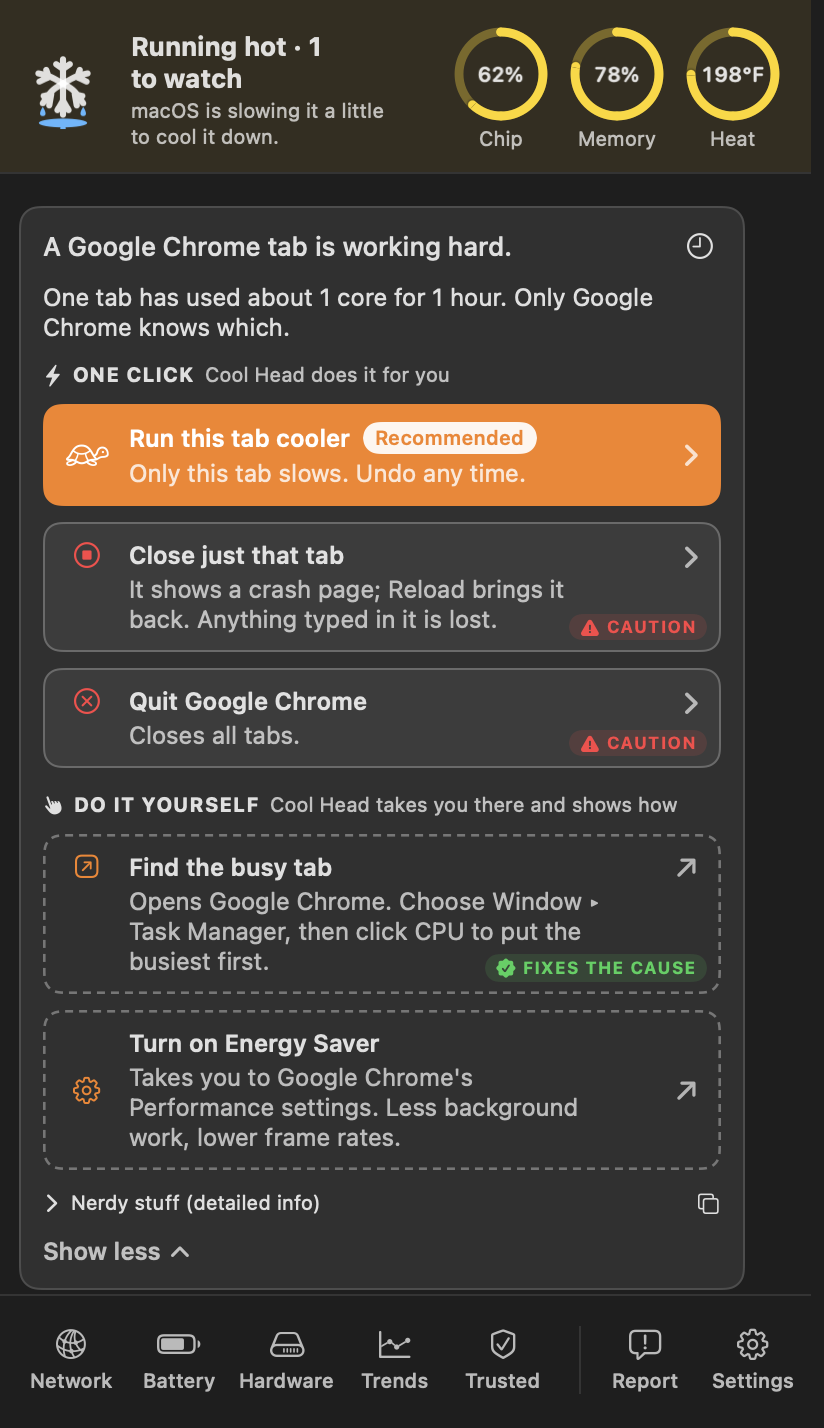
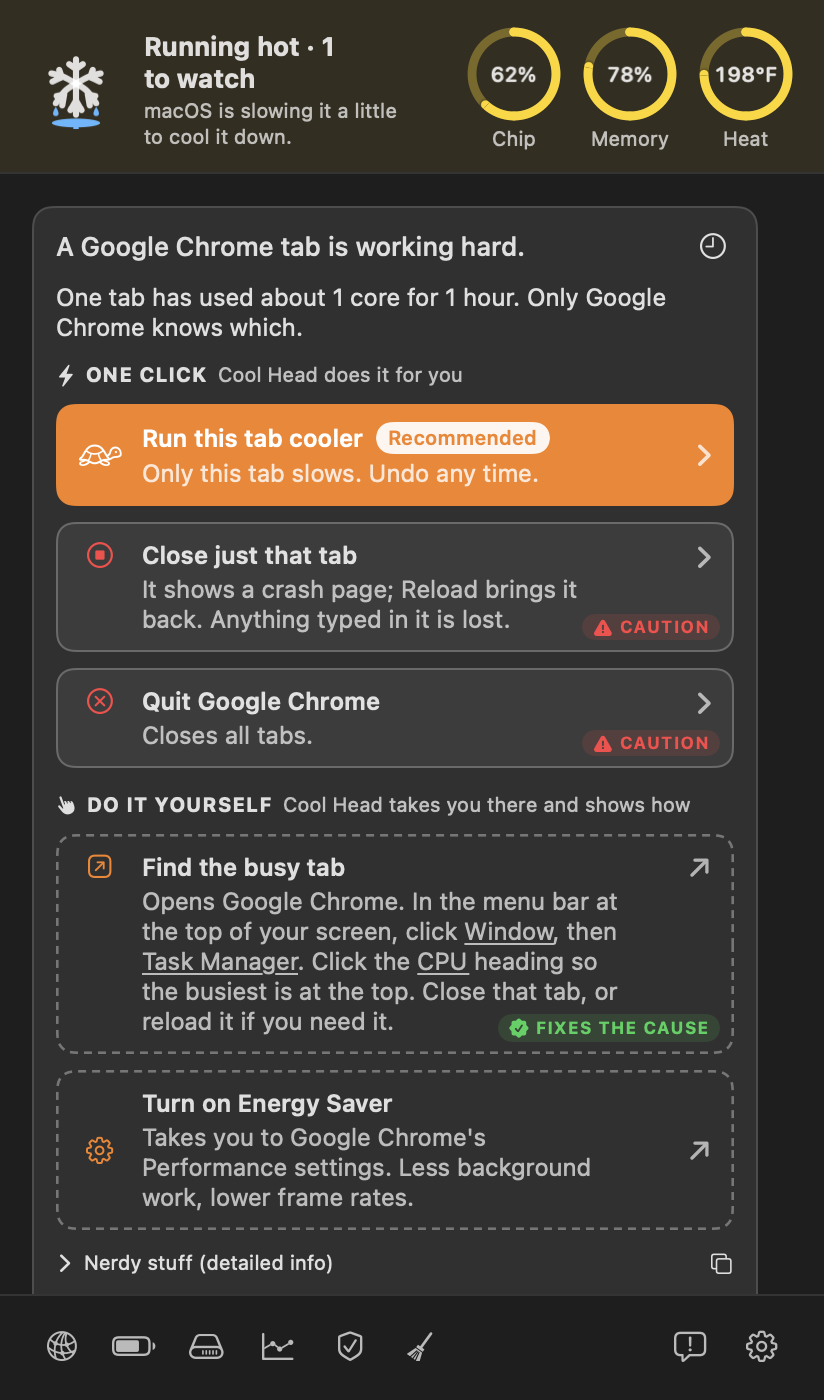
Release 0.10.0
- CHANGELOG.md: scripts/gather-changes.sh 0.10.0 moved 5 change notes
  into a dated 0.10.0 section (2 added, 3 changed), read through.
- VERSION and CoolHead.version are 0.10.0; scripts/check-version.sh
  v0.10.0 passes. Updater.newer compares numbers part by part, so 0.9.0
  copies see 0.10.0 as newer.
- What's new: four notes (Cleaner, Chrome's tab memory, underlined
  steps, bigger network symbols).
- README screenshots (docs/images/panel-*, pinned-*) redrawn from
  made-up sample cards, showing the broom; the caption lists Cleaner.
- swift build -c release and .build/release/coolhead selftest: 183 of 183.

Assisted-by: Claude Code:claude-opus-5-5

diff --git a/Sources/CoolHeadApp/PanelView.swift b/Sources/CoolHeadApp/PanelView.swift
@@ -634,6 +634,12 @@ struct WhatsNewCard: View {
 /// versions of CHANGELOG.md.
 enum WhatsNew {
     static let notes: [String: [String]] = [
+        "0.10.0": [
+            "Cleaner, the broom along the bottom, finds what deleted apps left behind and what rebuilds itself, and moves what you choose to the Trash.",
+            "When Chrome uses the most memory, its card can turn on Chrome's own memory display, so pointing at a tab shows how much it uses.",
+            "Steps that send you somewhere say exactly where to click, with menu items and buttons underlined.",
+            "Test my network's tiles have bigger symbols.",
+        ],
         "0.9.0": [
             "Settings are in the panel, behind the gear at the right of the toolbar, with the menu bar icon to pick by sight.",
             "The top of the panel shows how your Mac is running, with gauges for the chip, memory, and heat.",

diff --git a/Sources/CoolHeadCore/CaseReport.swift b/Sources/CoolHeadCore/CaseReport.swift
@@ -3,7 +3,7 @@ import Security
 
 public enum CoolHead {
     /// Kept in step with the VERSION file; scripts/build-app.sh checks they match.
-    public static let version = "0.9.0"
+    public static let version = "0.10.0"
 }
 
 /// The anonymised report behind "Share this case": what Cool Head saw about a process it couldn't explain, with

diff --git a/CHANGELOG.md b/CHANGELOG.md
@@ -6,6 +6,24 @@ What changed in each version of Cool Head, newest first, in plain words. The for
 
 Changes waiting for the next release are in [changes/](changes/), one file each, so pull requests don't edit the same lines here. The release pull request gathers them into this file (see [RELEASING.md](RELEASING.md)).
 
+## [0.10.0] - 2026-11-18
+
+### Added
+
+- When Google Chrome is using the most memory, its card offers **Show each tab's memory**: it opens Chrome's Appearance settings to turn on memory in tab hover cards, so pointing at any tab shows how much it uses. It isn't offered once that setting is on.
+- Cleaner, a new tool along the bottom of the panel (a broom), for what deleted apps leave behind and what takes space and rebuilds itself.
+  - Quick clean moves what nothing uses to the Trash with one click: background helpers whose program is gone, logs and crash reports over 30 days old, and saved windows of deleted apps.
+  - Deep clean is a list to choose from: what rebuilds itself is ticked (Xcode's build data, Homebrew's and npm's downloads, and Chrome's cache while Chrome is closed); what Cool Head can't be sure of is left for you to tick and marked Caution, such as settings panes in the System Settings sidebar whose app is gone, a deleted app's caches, and old macOS installers.
+  - Check Downloads… looks, in a folder you choose, for old installers and identical second downloads.
+  - Everything goes to the Trash after a second click, and Cool Head can put it back; items in folders for all users ask for an administrator's password and leave nothing installed.
+  - Links to Privacy & Security, where deleted apps can stay in the permission lists, and to Apple's Storage settings.
+
+### Changed
+
+- Test my network's tiles have bigger symbols, and Site lookup (DNS) has a magnifying glass over a page, easier to read than the letter it had.
+- Lists of three or more in Cool Head's text, and in its documents, use a comma before the last "and" or "or".
+- Steps that send you to Chrome's Task Manager say where the Window menu is, which heading to click, and what to close. Menu items, buttons, and settings named in steps are underlined, so they stand out.
+
 ## [0.9.0] - 2026-11-17
 
 ### Added
@@ -291,7 +309,8 @@ Changes waiting for the next release are in [changes/](changes/), one file each,
 
 - This download has no signature file: signing began with 0.3.0, the first version that updates itself.
 
-[Unreleased]: https://github.com/ThePhilDiamond/CoolHead/compare/v0.9.0...HEAD
+[Unreleased]: https://github.com/ThePhilDiamond/CoolHead/compare/v0.10.0...HEAD
+[0.10.0]: https://github.com/ThePhilDiamond/CoolHead/compare/v0.9.0...v0.10.0
 [0.9.0]: https://github.com/ThePhilDiamond/CoolHead/compare/v0.8.0...v0.9.0
 [0.8.0]: https://github.com/ThePhilDiamond/CoolHead/compare/v0.7.0...v0.8.0
 [0.7.0]: https://github.com/ThePhilDiamond/CoolHead/compare/v0.6.1...v0.7.0

diff --git a/README.md b/README.md
@@ -7,7 +7,7 @@
 <p align="center">
   <picture>
     <source media="(prefers-color-scheme: dark)" srcset="docs/images/panel-dark.png">
-    <img src="docs/images/panel-light.png" width="400" alt="The Cool Head panel on a hot Mac: the top row says Running hot, 1 to watch, with Chip, Memory, and Heat gauges; a card says a Google Chrome tab is working hard, with Run this tab cooler recommended under One click, Close just that tab and Quit Google Chrome marked Caution, and Find the busy tab under Do it yourself; the tools along the bottom are Network, Battery, Hardware, Trends, Trusted, Report, and Settings">
+    <img src="docs/images/panel-light.png" width="400" alt="The Cool Head panel on a hot Mac: the top row says Running hot, 1 to watch, with Chip, Memory, and Heat gauges; a card says a Google Chrome tab is working hard, with Run this tab cooler recommended under One click, Close just that tab and Quit Google Chrome marked Caution, and Find the busy tab under Do it yourself; the tools along the bottom are Network, Battery, Hardware, Trends, Trusted, Cleaner, Report, and Settings">
   </picture>
 </p>
 
